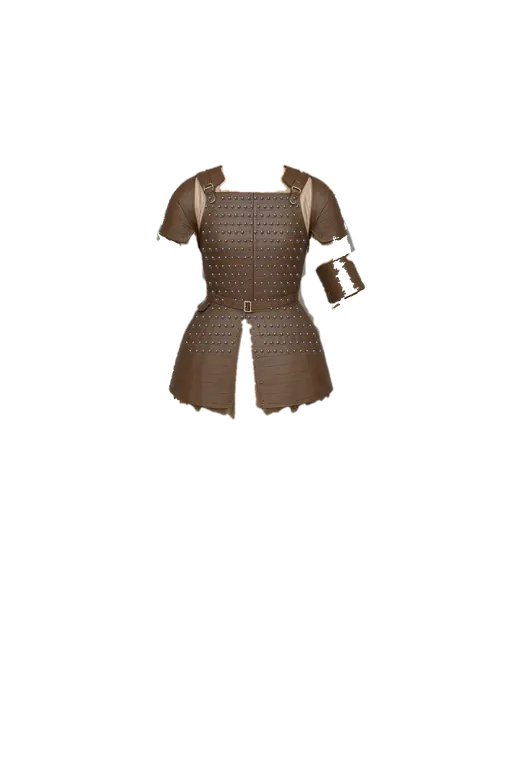
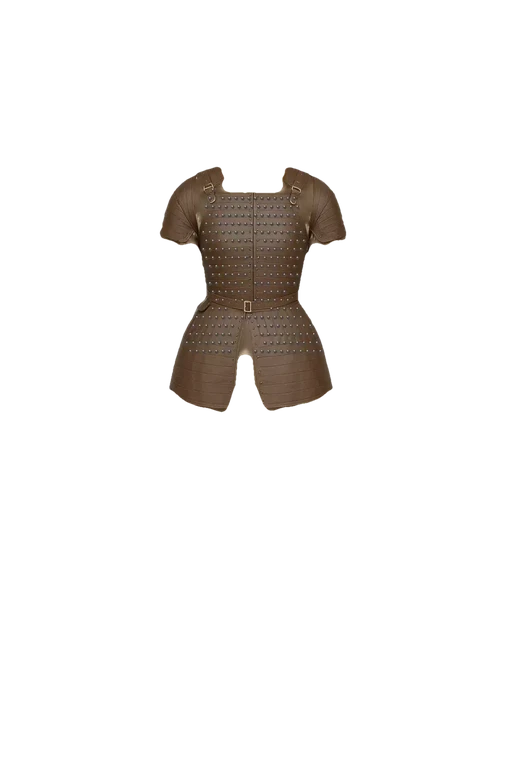
Postava (žena): brigantina – čistá (bez páskou na paži, světlých zbytků, roztřepeného lemu), masky pro krátké rukávy, podpaží, rozparek
Claude-Session: https://claude.ai/code/session_01Q25kmxKucwLhnUcj4Ap4v4

diff --git a/nastroje/vrstva_zbroj.py b/nastroje/vrstva_zbroj.py
@@ -91,18 +91,49 @@ if SUKNE:                                            # sukně oděvu se vedle zb
     if ruk == "zadne": ruce[:] = False                 # vesta: rukávy oděvu se neskrývají, není co chránit
     SK = (ys >= (SUKNE_X[None, :] if SUKNE_X is not None else SUKNE))
     R &= ~(SK & ~ruce)                     # pod řádkem SUKNE je sukně oděvu vidět všude, kde ji zbroj nekryje (paže ne)
+SB = np.full(W, -1)                                    # spodek rukávu zbroje ve sloupci (první souvislý kus shora)
+for x in range(W):
+    c = np.where(A[:, x])[0]
+    if len(c) and c[0] < top + 140:
+        c = c[:np.argmax(np.r_[np.diff(c) > 3, True]) + 1]; SB[x] = c.max()
+_v = np.where(SB >= 0)[0]
+if len(_v):                                          # vně rukávu (oděv trčí do strany): spodní hrana rukávu protažená ve stejném sklonu
+    for _e, _d in ((_v.min(), -1), (_v.max(), 1)):
+        _q = np.arange(_e, _e - 15 * _d, -_d); _sl = np.polyfit(_q, SB[_q], 1)[0] if len(_q) > 3 else 0
+        _xx = np.arange(0, _e) if _d < 0 else np.arange(_e + 1, W)
+        SB[_xx] = np.clip(SB[_e] + _sl * (_xx - _e), top, SB[_e] + 40).astype(int)
 # paže: plné rukávy → na paži nic zespodu (až k zápěstí); krátké → jen do konce rukávu
 for y in range(top, min(H, 960)):
     for a, b in useky(body[y]):
         if a <= 512 <= b or abs((a + b) / 2 - 512) < 160: continue
-        c = np.where(A[:, (a + b) // 2])[0]; konec = c.max() if len(c) else 0
+        c = np.where(A[:, (a + b) // 2])[0]
+        if len(c): c = c[:np.argmax(np.r_[np.diff(c) > 3, True]) + 1]   # jen první souvislý kus shora (rukáv), ne bok zbroje níž
+        konec = c.max() if len(c) else 0
         if ruk == "plne":
             if y <= konec + 3: RT[y, max(0, a - 40):b + 41] = True
         elif ruk == "kratke":
-            R[y, max(0, a - 40):b + 41] = y <= konec + 2
-            if y <= konec + 2: RT[y, max(0, a - 40):b + 41] = True
+            sl = slice(max(0, a - 40), b + 41)
+            R[y, sl] = y <= SB[sl] + 2                    # po spodní hranu rukávu zbroje v každém sloupci (šikmý konec rukávu)
+            RT[y, sl] |= y <= SB[sl] + 2
         else:
             R[y, max(0, a - 18):b + 19] = False          # vesta: rukávy oděvu zůstanou
+if ruk == "kratke":                                    # pod krátkým rukávem: paže (i s rukávem oděvu) zůstane, i kde v siluetě splývá s bokem
+    for y in range(top, min(H, 1000)):
+        sg = [u for u in useky(A[y]) if abs((u[0] + u[1]) / 2 - 512) < 200]
+        if not sg: continue
+        l_, r_ = min(u[0] for u in sg), max(u[1] for u in sg)
+        pod = y > SB + 2
+        L = np.arange(W) < l_ - 10; P = np.arange(W) > r_ + 10
+        R[y, (L | P) & pod] = False; RT[y, (L | P) & pod] = False
+if ruk == "kratke":                                    # podpaží: pás u boku zbroje (mimo samotnou paži) schovat – žádné světlé cípy pod rukou
+    for y in range(top, int(hem.max())):
+        sg = [u for u in useky(A[y]) if abs((u[0] + u[1]) / 2 - 512) < 200]
+        if not sg: continue
+        l_, r_ = min(u[0] for u in sg), max(u[1] for u in sg)
+        pas = np.zeros(W, bool); pas[max(0, l_ - 26):l_] = True; pas[r_ + 1:r_ + 27] = True
+        for a_, b_ in useky(body[y]):
+            if not (a_ <= 512 <= b_): pas[max(0, a_ - 6):b_ + 7] = False
+        R[y] |= pas
 # průkrčník: v otvoru zbroje u krku se límec oděvu smí ukázat
 for y in range(top - 30, top + 90):
     row = np.where(A[y])[0]
@@ -134,7 +165,7 @@ if ruk == "zadne":
     pass                     # vesta: R míří jen k trupu, paže nezasahuje              # paže v rukávu zbroje: pryč celá (i kůže), ruka pod rukávem zůstane
 if ruk != "zadne":                                   # těsně kolem rukávů zbroje nic zespodu
     okoli = cv2.dilate(A.astype(np.uint8), np.ones((51, 51), np.uint8)) > 0
-    R |= okoli & ~A & (np.abs(xs - 512) > 150) & (ys >= top) & (ys <= colbot[None, :].clip(0) + 10) & ~((ys >= hem[None, :] - 4) & (np.abs(xs - 512) < 260) & (ys > 700))
+    R |= okoli & ~A & (np.abs(xs - 512) > 150) & (ys >= top) & (ys <= (SB if ruk == "kratke" else colbot)[None, :].clip(0) + 10) & ~((ys >= hem[None, :] - 4) & (np.abs(xs - 512) < 260) & (ys > 700))
 def cist(m):                                         # bez jednořádkových proužků a drobků
     m = cv2.morphologyEx(m.astype(np.uint8), cv2.MORPH_OPEN, np.ones((4, 1), np.uint8))
     c, lab, st, _ = cv2.connectedComponentsWithStats(m)
@@ -188,12 +219,39 @@ if SUKNE and OD:                                     # sukně vedle zbroje nad l
     _c, _lab, _st, _ = cv2.connectedComponentsWithStats(_vz)
     for _i in range(1, _c):
         if _st[_i, cv2.CC_STAT_TOP] + _st[_i, cv2.CC_STAT_HEIGHT] < _hm - 20: _ok[_lab == _i] = False
-    _z = (np.abs(xs - 512) < 330) & (ys >= 600) & ~A
+    _ruka = np.zeros((H, W), bool)                      # paže (oddělené od trupu) – na ty se sukňové pravidlo nevztahuje
+    for _y in range(600, min(H, 1000)):
+        for _a, _b in useky(body[_y]):
+            if not (_a <= 512 <= _b): _ruka[_y, max(0, _a - 35):_b + 36] = True
+    _z = (np.abs(xs - 512) < 330) & (ys >= 600) & ~A & ~_ruka
     R = np.where(_z, ~_ok, R); RB = np.where(_z & _zona, ~_ok & ~A, RB)
     _vz = (_o & ~R & ~cv2.dilate(A.astype(np.uint8), np.ones((3, 3), np.uint8)).astype(bool)).astype(np.uint8)   # drobné útržky oděvu kolem zbroje pryč
     _c, _lab, _st, _ = cv2.connectedComponentsWithStats(_vz)
     for _i in range(1, _c):
         if _st[_i, cv2.CC_STAT_AREA] < 400: R[_lab == _i] = True
+if ruk == "kratke":                                    # spodní prádlo: kde je oděv schovaný, ani prádlo nesmí vykukovat; bez oděvu jeho rukávek pod rukávem zbroje pryč
+    _rg = (t[..., 0] - t[..., 1]) / np.maximum(t[..., 0], 1e-3)      # prádlo (len) má malý rozdíl R-G, kůže velký
+    _ch = ((t[..., 3] > .3) & (_rg < .19) & (ys >= 330)).astype(np.uint8)
+    _ch = cv2.morphologyEx(_ch, cv2.MORPH_CLOSE, np.ones((5, 5), np.uint8))
+    _c, _lab, _st, _ = cv2.connectedComponentsWithStats(_ch)
+    _ch = np.isin(_lab, [i for i in range(1, _c) if _st[i, cv2.CC_STAT_AREA] > 800])
+    RB |= R & _ch & ~Ajadro
+    if not OD: RB |= _ch & ~A & (np.abs(xs - 512) > 130) & (ys < 700)
+    _mimo = np.zeros((H, W), bool)                       # dál než 12 px od trupu zbroje (tam jsou paže)
+    for y in range(top, min(H, 1000)):
+        sg = [u for u in useky(A[y]) if abs((u[0] + u[1]) / 2 - 512) < 200]
+        if sg: _mimo[y, :max(0, min(u[0] for u in sg) - 12)] = True; _mimo[y, max(u[1] for u in sg) + 13:] = True
+        else: _mimo[y] = True
+    RB &= ~((t[..., 3] > .3) & (_rg >= .19) & ~A & (ys > SB[None, :] + 2) & (ys < 1000) & _mimo)   # kůže paží pod rukávem zůstává celá
+    _vb = ((t[..., 3] > .3) & ~RB & ~cv2.dilate(A.astype(np.uint8), np.ones((3, 3), np.uint8)).astype(bool) & (ys < 760)).astype(np.uint8)
+    _c, _lab, _st, _ = cv2.connectedComponentsWithStats(_vb)   # útržky prádla kolem podpaží (ne paže) pryč
+    for _i in range(1, _c):
+        if _st[_i, cv2.CC_STAT_AREA] < 1500: RB[_lab == _i] = True
+for y in range(650, int(hem.max()) + 1):              # rozparek zbroje: uvnitř je vidět spodní vrstva (oděv i prádlo)
+    sg = [u for u in useky(A[y]) if abs((u[0] + u[1]) / 2 - 512) < 200]
+    if len(sg) < 2: continue
+    sg.sort(); a_ = sg[0][1] + 1; b_ = sg[-1][0]
+    if b_ - a_ < 120: R[y, a_:b_] = False; RB[y, a_:b_] = False
 jm = f"{n}__{OD}" if OD else n
 uloz(R, D / f"{jm}-skryva.webp"); uloz(RB, D / f"{jm}-skryva-telo.webp")
 j = json.load(open(D / "skryva.json"))

diff --git a/nastroje/lem_hladky.py b/nastroje/lem_hladky.py
@@ -1,0 +1,24 @@
+"""JEDNA vrstva: hladký spodní lem — od řádku Y dolů se spodek každého sloupce srovná do plynulé křivky
+(po souvislých úsecích, např. dvě poly zbroje u rozparku), poloprůhledné cáry pryč.
+python3 nastroje/lem_hladky.py <vrstva> <Y> [prah_alfy=200] [sigma=8]"""
+import sys
+import numpy as np
+from PIL import Image
+from pathlib import Path
+from scipy.ndimage import gaussian_filter1d, minimum_filter1d
+D = Path("img/postava"); n = sys.argv[1]; Y = int(sys.argv[2])
+T = int(sys.argv[3]) if len(sys.argv) > 3 else 200; S = float(sys.argv[4]) if len(sys.argv) > 4 else 8
+k = np.array(Image.open(D / f"{n}.webp").convert("RGBA")); H, W = k.shape[:2]
+ys = np.arange(H)[:, None]
+k[..., 3] = np.where((ys >= Y) & (k[..., 3] < T), 0, k[..., 3])
+A = k[..., 3] >= T
+cb = np.where(A.any(0), H - 1 - np.argmax(A[::-1], axis=0), -1).astype(float)
+idx = np.where(cb >= Y)[0]
+for sg in np.split(idx, np.where(np.diff(idx) > 1)[0] + 1):
+    if len(sg) < 5: k[:, sg, 3] = np.where(ys >= Y, 0, k[:, sg, 3]); continue
+    v = gaussian_filter1d(minimum_filter1d(cb[sg], 15), S, mode="nearest") - 1
+    for x, yv in zip(sg, v):
+        y0 = int(np.floor(yv)); fr = yv - y0
+        k[y0 + 2:, x, 3] = 0; k[y0 + 1, x, 3] = int(k[y0 + 1, x, 3] * fr)
+Image.fromarray(k).save(D / f"{n}.webp", "WEBP", quality=92); Image.fromarray(k).resize((512, 768), Image.LANCZOS).save(D / f"{n}-m.webp", "WEBP", quality=90)
+print(n, "lem srovnán", len(idx))
